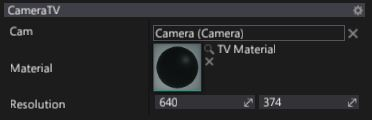
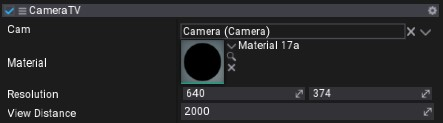
Update render-camera-to-texture.md Update CameraTV code example to latest code in graphics sample.

diff --git a/manual/graphics/cameras/render-camera-to-texture.md b/manual/graphics/cameras/render-camera-to-texture.md
@@ -67,23 +67,28 @@ public class CameraTV : Script
         }
     }
 
+    public float ViewDistance = 2000;
+
     private Vector2 _resolution = new Vector2(640, 374);
     private GPUTexture _output;
     private SceneRenderTask _task;
     private MaterialInstance _material;
 
-	private void UpdateOutput()
-	{
-		var desc = GPUTextureDescription.New2D((int)_resolution.X, (int)_resolution.Y, PixelFormat.R8G8B8A8_UNorm);
-		_output.Init(ref desc);
-	}
+    private void UpdateOutput()
+    {
+        var desc = GPUTextureDescription.New2D(
+            (int)_resolution.X,
+            (int)_resolution.Y,
+            PixelFormat.R8G8B8A8_UNorm);
+        _output.Init(ref desc);
+    }
 
     public override void OnEnable()
     {
         // Create backbuffer
         if (_output == null)
-            _output = GPUDevice.CreateTexture();
-		UpdateOutput();
+            _output = new GPUTexture();
+        UpdateOutput();
 
         // Create rendering task
         if (_task == null)
@@ -91,6 +96,7 @@ public class CameraTV : Script
         _task.Order = -100;
         _task.Camera = Cam;
         _task.Output = _output;
+        _task.ViewFlags = ViewFlags.Reflections | ViewFlags.Decals | ViewFlags.AO | ViewFlags.GI | ViewFlags.DirectionalLights | ViewFlags.PointLights | ViewFlags.SpotLights | ViewFlags.SkyLights | ViewFlags.Shadows | ViewFlags.SpecularLight | ViewFlags.CustomPostProcess | ViewFlags.ToneMapping;
         _task.Enabled = false;
 
         if (Material && _material == null)
@@ -112,6 +118,11 @@ public class CameraTV : Script
         }
 
         _task.Enabled = true;
+    }
+
+    public override void OnUpdate()
+    {
+        _task.Enabled = Vector3.Distance(Actor.Position, MainRenderTask.Instance.View.Position) <= ViewDistance;
     }
 
     public override void OnDisable()
